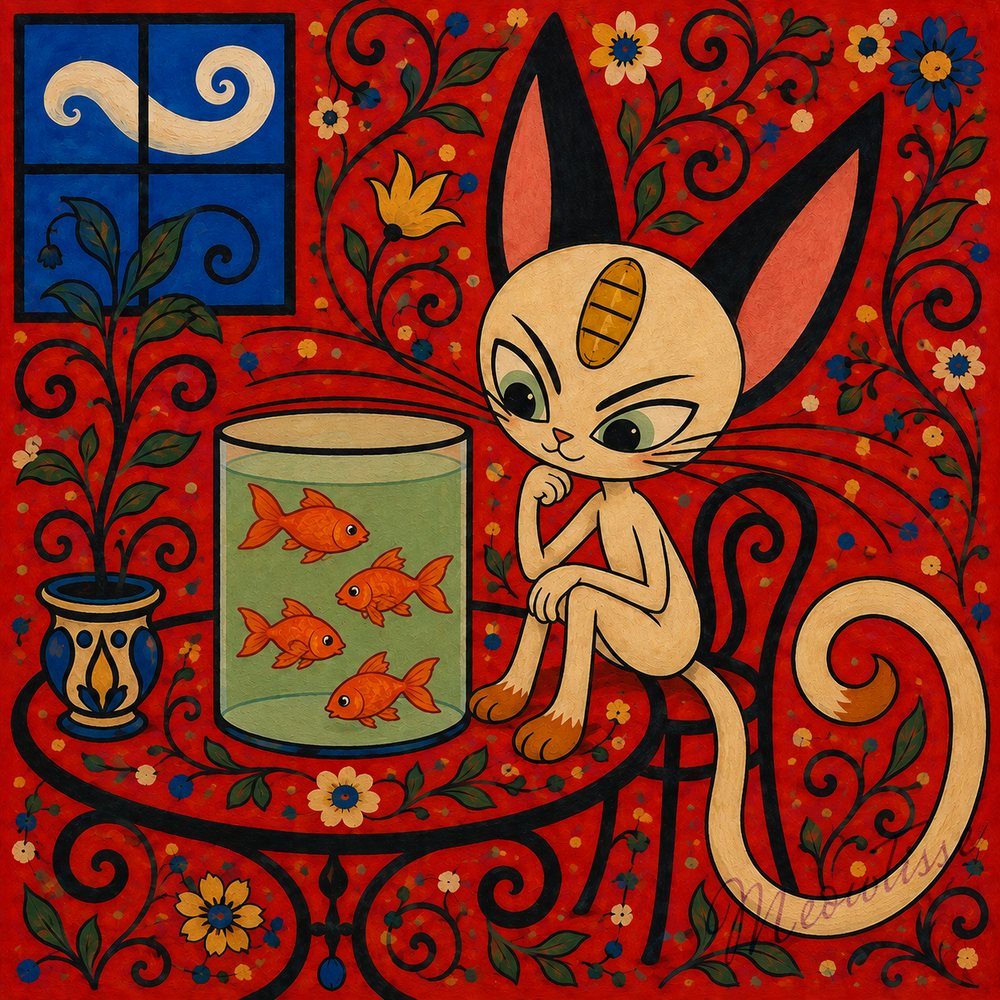
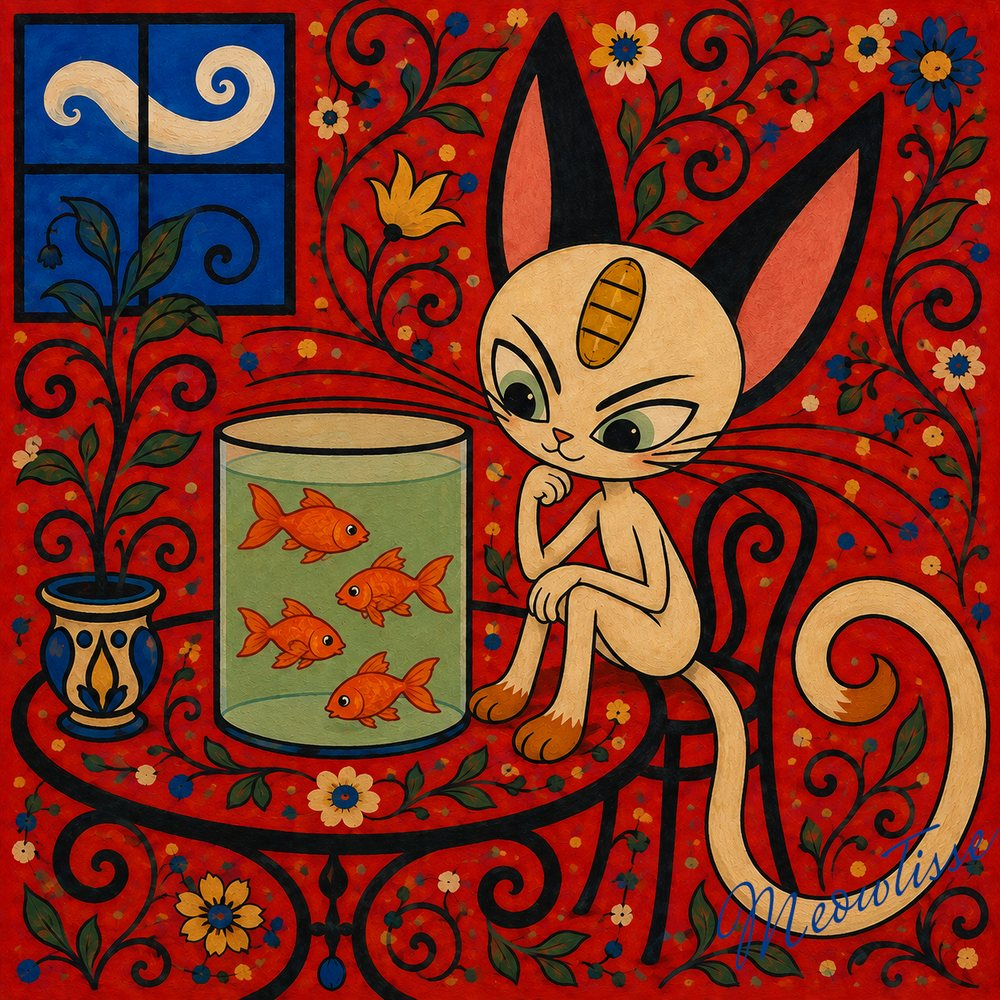
Arts: new versions of all eight Zabieru Fokon works
Seven are identical apart from a reworked signature, now uniformly lower
right — Velazgeta's has moved over from the lower left, so the closing text
goes back to "en bas a droite" / "lower right" / "abajo a la derecha" in all
three languages.

Jackson Piccollock is a different painting altogether: a diagonal lunge in
close-up on near-black, where the old one was a standing caped figure on
ochre with a detonation at the lower right. Its notice described that older
composition down to the detonation, so it is rewritten in FR, EN and ES.

Changed region(s): [[0.713, 0.806, 1.0, 0.992]]

diff --git a/translations.js b/translations.js
@@ -212,7 +212,7 @@ const LANG_DATA = {
     'arts.zab.w2.after': "D'après Frida Kahlo, « Autoportrait au collier d'épines et colibri » (1940)",
     'arts.zab.w2.desc': "Frontal, symétrique, sans ciller. Le modèle n'offre au spectateur aucun angle d'approche et aucune invitation. Là où la tradition place des cheveux, l'artiste place hibiscus et œillets d'Inde ; là où elle place un collier d'épines, il place un collier d'épines, et laisse l'armure violette qui l'accompagne faire le travail. Le feuillage sature le plan jusqu'à ce que la figure soit moins représentée que pressée, comme un spécimen, contre la surface. Sur l'épaule, un petit compagnon cornu tend une fleur qui ne sera pas acceptée. La plus silencieuse des quatre images, et la moins indulgente.",
     'arts.zab.w3.after': "D'après Jackson Pollock, « Autumn Rhythm (Number 30) » (1950)",
-    'arts.zab.w3.desc': "La figure à la cape ne se tient pas devant la composition : elle y est prise — maintenue debout par un filet all-over d'émeraude, de blanc d'os et de noir projetés, où les coulures se lisent aussi bien comme peinture que comme énergie déchargée. En bas à droite, les écheveaux convergent en une seule détonation d'orange et de blanc, le seul endroit où le réseau consent un centre. La critique s'est divisée : la figure produit-elle le tableau ou tente-t-elle d'en sortir ? L'artiste a toujours soutenu que la distinction était sans intérêt.",
+    'arts.zab.w3.desc': "La figure à la cape ne se tient pas devant la composition : elle y est projetée — en diagonale, en plein élan, tenue ensemble par un filet all-over de blanc d'os, d'émeraude et d'orange lancés sur un fond presque noir. Les coulures se lisent aussi bien comme peinture que comme énergie déchargée. Le manteau blanc se déroule dans la moitié haute comme la seule ligne continue d'une surface entièrement faite d'interruptions, tandis que la cape violette se perd en bas à gauche sans jamais devenir tissu. La critique s'est divisée : la figure produit-elle le tableau ou tente-t-elle d'en sortir ? L'artiste a toujours soutenu que la distinction était sans intérêt.",
     'arts.zab.w4.after': "D'après Diego Vélasquez, « Les Ménines » (1656)",
     'arts.zab.w4.desc': "La plus orthodoxe et la plus ironique des quatre. Une cour qui n'existe plus, réassemblée dans un intérieur Habsbourg doré : le prince au centre, bras croisés, menton relevé, flanqué de ses guerriers et entouré des enfants de la lignée — tandis que des toiles encadrées à l'intérieur de la toile répètent la dynastie jusque dans l'ombre. Bruns chauds, lumière de fenêtre venue de la droite, tout l'appareil du portrait royal mis au service d'un royaume de neuf survivants peut-être. Le modèle n'en a pas été informé, et cela lui serait égal.",
     'arts.zab.w5.after': "D'après Pablo Picasso, à la manière des portraits fracturés (v. 1937)",
@@ -223,7 +223,7 @@ const LANG_DATA = {
     'arts.zab.w7.desc': "La platitude poursuivie sans excuse. Un chat crème, breloque dorée au front, médite devant un bocal de poissons orange, dans un intérieur où mur, table et sol se sont effondrés en un seul plan rouge saturé, tenu par des arabesques noires et des fleurs éparses. La profondeur est refusée ; c'est l'ornement qui assure tout le travail structurel. La fenêtre ouvre sur un ailleurs bleu et plat. L'image la plus purement jouissive de la série — et notez que le chat n'a encore rien décidé.",
     'arts.zab.w8.after': "D'après René Magritte, « Golconde » (1953)",
     'arts.zab.w8.desc': "Pince-sans-rire, et d'autant plus drôle. Au-dessus d'une rangée de maisons grises aux volets clos, des poissons orange sont suspendus, immobiles, en rangs ordonnés, diminuant vers l'horizon avec une parfaite logique administrative — bouche ouverte dans une surprise légère et permanente, sans projeter d'ombre, obéissant à une perspective que le ciel lui-même a contresignée. La facture est lisse et impersonnelle, la lumière bureaucratique. L'artiste refuse chaque occasion de signaler qu'une plaisanterie est en cours, ce qui est la seule raison pour laquelle la plaisanterie fonctionne.",
-    'arts.zab.outro': "Fōkon peint tous les jours, mais jamais ceci : le pinceau est réservé à des paysages à l'encre sur papier, pratique privée qu'il n'expose pas — la seule tradition qu'il refuse de faire entrer en collision avec quoi que ce soit. Les œuvres, elles, sont imprimées directement sur aluminium brossé, une surface qu'il décrit comme « honnête quant à son siècle ». La signature, toujours dans la marge basse, fond deux noms en un seul : le peintre et le personnage partageant, enfin, une seule main. Il vit à Singapour avec sa femme et leurs deux enfants, et refuse d'en dire davantage.",
+    'arts.zab.outro': "Fōkon peint tous les jours, mais jamais ceci : le pinceau est réservé à des paysages à l'encre sur papier, pratique privée qu'il n'expose pas — la seule tradition qu'il refuse de faire entrer en collision avec quoi que ce soit. Les œuvres, elles, sont imprimées directement sur aluminium brossé, une surface qu'il décrit comme « honnête quant à son siècle ». La signature, toujours en bas à droite, fond deux noms en un seul : le peintre et le personnage partageant, enfin, une seule main. Il vit à Singapour avec sa femme et leurs deux enfants, et refuse d'en dire davantage.",
     'arts.corr.label': 'Lecture transversale — 2026',
     'arts.corr.title': "M&M's — Correspondances",
     'arts.corr.desc': "Chaque M&M apparaît dans deux séries — un Environnement, un Élément. Loin d'être anecdotique, ce doublement compose une grammaire secrète : c'est dans le passage d'un cadre à l'autre, dans l'écho silencieux entre les deux visages d'un même personnage, que se révèle le véritable propos de l'œuvre. Cinq couleurs, cinq diptyques, cinq vertiges.",
@@ -409,7 +409,7 @@ const LANG_DATA = {
     'arts.zab.w2.after': 'After Frida Kahlo, "Self-Portrait with Thorn Necklace and Hummingbird" (1940)',
     'arts.zab.w2.desc': "Frontal, symmetrical, unblinking. The sitter offers the viewer no angle of approach and no invitation. Where the tradition places hair, the artist places hibiscus and marigolds; where it places a thorn necklace, the artist places a thorn necklace, and lets the violet armour beneath it do the work. The foliage crowds the picture plane until the figure is less portrayed than pressed, specimen-like, against the surface. On the shoulder, a small horned companion offers a flower that will not be accepted. The quietest of the four images, and the least forgiving.",
     'arts.zab.w3.after': 'After Jackson Pollock, "Autumn Rhythm (Number 30)" (1950)',
-    'arts.zab.w3.desc': "The caped figure does not stand before the composition; he is caught in it — held upright by an all-over net of flung emerald, bone white and black, the drips reading equally as paint and as discharged energy. At the lower right, the skeins converge into a single detonation of orange and white, the one place where the network admits a centre. Critics have disagreed over whether the figure is producing the painting or escaping it. The artist has consistently maintained that the distinction is uninteresting.",
+    'arts.zab.w3.desc': "The caped figure does not stand before the composition; he is thrown across it — diagonal, mid-lunge, held together by an all-over net of flung bone white, emerald and orange on a ground of near-black. The drips read equally as paint and as discharged energy. The white mantle unwinds through the upper half as the one sustained line in a surface otherwise built entirely of interruptions, while the violet cape trails off the lower left without ever resolving into cloth. Critics have disagreed over whether the figure is producing the painting or escaping it. The artist has consistently maintained that the distinction is uninteresting.",
     'arts.zab.w4.after': 'After Diego Velázquez, "Las Meninas" (1656)',
     'arts.zab.w4.desc': "The most orthodox and the most ironic of the four. A court that no longer exists, reassembled in a golden Habsburg interior: the prince at centre, arms folded, chin raised, flanked by his warriors and attended by children of the line — while framed canvases within the canvas repeat the dynasty into the shadows. Warm darks, window light from the right, the whole apparatus of royal portraiture placed at the service of a kingdom of perhaps nine survivors. The sitter has not been informed, and would not care.",
     'arts.zab.w5.after': 'After Pablo Picasso, in the manner of the fractured portraits (c. 1937)',
@@ -420,7 +420,7 @@ const LANG_DATA = {
     'arts.zab.w7.desc': "Flatness pursued without apology. A cream-coloured cat, gold charm at its brow, sits in contemplation before a bowl of orange fish, in an interior where wall, table and floor have collapsed into a single saturated red plane held together by black arabesques and scattered blossom. Depth is refused; the ornament does all the structural work. The window opens onto a flat blue elsewhere. The most purely pleasurable image in the series — and note that the cat has not yet decided anything.",
     'arts.zab.w8.after': 'After René Magritte, "Golconda" (1953)',
     'arts.zab.w8.desc': "Deadpan, and the funnier for it. Above a terrace of shuttered grey townhouses, orange fish hang motionless in ordered ranks, diminishing with perfect administrative logic toward the horizon — mouths open in permanent mild surprise, casting no shadows, obeying a perspective that the sky itself has signed off on. The facture is smooth and impersonal, the light bureaucratic. The artist declines every opportunity to signal that a joke is underway, which is the only reason the joke works.",
-    'arts.zab.outro': "Fōkon paints every day, and none of it is this: the brush is kept for ink landscapes on paper, a private practice he never exhibits — the one tradition he declines to collide with anything at all. The works themselves are printed directly on brushed aluminium, a surface he describes as \"honest about its century.\" The signature, always in the lower margin, fuses two names into one: the painter and the character sharing, at last, a single hand. He lives in Singapore with his wife and their two children, and declines to say more.",
+    'arts.zab.outro': "Fōkon paints every day, and none of it is this: the brush is kept for ink landscapes on paper, a private practice he never exhibits — the one tradition he declines to collide with anything at all. The works themselves are printed directly on brushed aluminium, a surface he describes as \"honest about its century.\" The signature, always lower right, fuses two names into one: the painter and the character sharing, at last, a single hand. He lives in Singapore with his wife and their two children, and declines to say more.",
     'arts.corr.label': 'Cross-reading — 2026',
     'arts.corr.title': "M&M's — Correspondences",
     'arts.corr.desc': "Each M&M appears in two series — an Environment, an Element. Far from incidental, this doubling composes a secret grammar: it is in the passage from one frame to the other, in the silent echo between the two faces of the same character, that the true meaning of the work reveals itself. Five colours, five diptychs, five vertigos.",
@@ -718,7 +718,7 @@ const LANG_DATA = {
     'arts.zab.w2.after': 'Según Frida Kahlo, «Autorretrato con collar de espinas y colibrí» (1940)',
     'arts.zab.w2.desc': "Frontal, simétrico, sin parpadear. El modelo no ofrece al espectador ningún ángulo de aproximación ni invitación alguna. Donde la tradición pone cabello, el artista pone hibiscos y cempasúchiles; donde pone un collar de espinas, el artista pone un collar de espinas, y deja que la armadura violeta que hay debajo haga el trabajo. El follaje satura el plano hasta que la figura queda menos representada que prensada, como un espécimen, contra la superficie. Sobre el hombro, un pequeño compañero con cuernos ofrece una flor que no será aceptada. La más silenciosa de las cuatro imágenes, y la menos indulgente.",
     'arts.zab.w3.after': 'Según Jackson Pollock, «Autumn Rhythm (Number 30)» (1950)',
-    'arts.zab.w3.desc': "La figura con capa no está delante de la composición: está atrapada en ella — sostenida en pie por una red all-over de esmeralda, blanco hueso y negro lanzados, donde los chorreos se leen tanto como pintura como energía descargada. Abajo a la derecha, las madejas convergen en una única detonación de naranja y blanco, el único lugar donde la red admite un centro. La crítica se ha dividido: ¿la figura produce el cuadro o intenta escapar de él? El artista siempre ha sostenido que la distinción carece de interés.",
+    'arts.zab.w3.desc': "La figura con capa no está delante de la composición: está lanzada a través de ella — en diagonal, en plena embestida, sostenida por una red all-over de blanco hueso, esmeralda y naranja arrojados sobre un fondo casi negro. Los chorreos se leen tanto como pintura como energía descargada. El manto blanco se despliega en la mitad superior como la única línea continua de una superficie hecha enteramente de interrupciones, mientras la capa violeta se pierde abajo a la izquierda sin llegar nunca a ser tela. La crítica se ha dividido: ¿la figura produce el cuadro o intenta escapar de él? El artista siempre ha sostenido que la distinción carece de interés.",
     'arts.zab.w4.after': 'Según Diego Velázquez, «Las Meninas» (1656)',
     'arts.zab.w4.desc': "La más ortodoxa y la más irónica de las cuatro. Una corte que ya no existe, reensamblada en un interior Habsburgo dorado: el príncipe en el centro, brazos cruzados, mentón alzado, flanqueado por sus guerreros y atendido por los niños del linaje — mientras lienzos enmarcados dentro del lienzo repiten la dinastía hasta la sombra. Oscuros cálidos, luz de ventana desde la derecha, todo el aparato del retrato real puesto al servicio de un reino de quizá nueve supervivientes. Al modelo no se le ha informado, y no le importaría.",
     'arts.zab.w5.after': 'Según Pablo Picasso, a la manera de los retratos fracturados (h. 1937)',
@@ -729,7 +729,7 @@ const LANG_DATA = {
     'arts.zab.w7.desc': "La planitud perseguida sin disculpas. Un gato color crema, con un dije dorado en la frente, medita ante una pecera de peces naranjas, en un interior donde pared, mesa y suelo se han colapsado en un único plano rojo saturado, sostenido por arabescos negros y flores dispersas. Se rechaza la profundidad; el ornamento hace todo el trabajo estructural. La ventana se abre a un otro lugar azul y plano. La imagen más puramente gozosa de la serie — y nótese que el gato aún no ha decidido nada.",
     'arts.zab.w8.after': 'Según René Magritte, «Golconda» (1953)',
     'arts.zab.w8.desc': "Impasible, y por eso más gracioso. Sobre una hilera de casas grises con las persianas cerradas, peces naranjas cuelgan inmóviles en filas ordenadas, disminuyendo hacia el horizonte con perfecta lógica administrativa — la boca abierta en una sorpresa leve y permanente, sin proyectar sombra, obedeciendo a una perspectiva que el propio cielo ha refrendado. La factura es lisa e impersonal, la luz burocrática. El artista rechaza toda ocasión de señalar que hay una broma en marcha, que es la única razón por la que la broma funciona.",
-    'arts.zab.outro': "Fōkon pinta todos los días, y nada de ello es esto: el pincel está reservado a paisajes a tinta sobre papel, una práctica privada que nunca expone — la única tradición que se niega a hacer colisionar con nada. Las obras, en cambio, se imprimen directamente sobre aluminio cepillado, una superficie que describe como «honesta respecto a su siglo». La firma, siempre en el margen inferior, funde dos nombres en uno: el pintor y el personaje compartiendo, por fin, una sola mano. Vive en Singapur con su mujer y sus dos hijos, y se niega a decir más.",
+    'arts.zab.outro': "Fōkon pinta todos los días, y nada de ello es esto: el pincel está reservado a paisajes a tinta sobre papel, una práctica privada que nunca expone — la única tradición que se niega a hacer colisionar con nada. Las obras, en cambio, se imprimen directamente sobre aluminio cepillado, una superficie que describe como «honesta respecto a su siglo». La firma, siempre abajo a la derecha, funde dos nombres en uno: el pintor y el personaje compartiendo, por fin, una sola mano. Vive en Singapur con su mujer y sus dos hijos, y se niega a decir más.",
     'arts.corr.label': 'Lectura transversal — 2026',
     'arts.corr.title': "M&M's — Correspondencias",
     'arts.corr.desc': "Cada M&M aparece en dos series — un Entorno, un Elemento. Lejos de ser anecdótico, este desdoblamiento compone una gramática secreta: es en el paso de un marco al otro, en el eco silencioso entre los dos rostros de un mismo personaje, donde se revela el verdadero propósito de la obra. Cinco colores, cinco dípticos, cinco vértigos.",

diff --git a/arts.html b/arts.html
@@ -893,7 +893,7 @@
           <div class="zab-body">
             <div class="zab-title">Jackson Piccollock</div>
             <div class="zab-after" data-i18n="arts.zab.w3.after">D'après Jackson Pollock, « Autumn Rhythm (Number 30) » (1950)</div>
-            <p class="zab-desc" data-i18n="arts.zab.w3.desc">La figure à la cape ne se tient pas devant la composition : elle y est prise — maintenue debout par un filet all-over d'émeraude, de blanc d'os et de noir projetés, où les coulures se lisent aussi bien comme peinture que comme énergie déchargée. En bas à droite, les écheveaux convergent en une seule détonation d'orange et de blanc, le seul endroit où le réseau consent un centre. La critique s'est divisée : la figure produit-elle le tableau ou tente-t-elle d'en sortir ? L'artiste a toujours soutenu que la distinction était sans intérêt.</p>
+            <p class="zab-desc" data-i18n="arts.zab.w3.desc">La figure à la cape ne se tient pas devant la composition : elle y est projetée — en diagonale, en plein élan, tenue ensemble par un filet all-over de blanc d'os, d'émeraude et d'orange lancés sur un fond presque noir. Les coulures se lisent aussi bien comme peinture que comme énergie déchargée. Le manteau blanc se déroule dans la moitié haute comme la seule ligne continue d'une surface entièrement faite d'interruptions, tandis que la cape violette se perd en bas à gauche sans jamais devenir tissu. La critique s'est divisée : la figure produit-elle le tableau ou tente-t-elle d'en sortir ? L'artiste a toujours soutenu que la distinction était sans intérêt.</p>
           </div>
         </div>
 
@@ -969,7 +969,7 @@
       </div>
 
       <div class="zab-outro">
-        <p data-i18n="arts.zab.outro">Fōkon peint tous les jours, mais jamais ceci : le pinceau est réservé à des paysages à l'encre sur papier, pratique privée qu'il n'expose pas — la seule tradition qu'il refuse de faire entrer en collision avec quoi que ce soit. Les œuvres, elles, sont imprimées directement sur aluminium brossé, une surface qu'il décrit comme « honnête quant à son siècle ». La signature, toujours dans la marge basse, fond deux noms en un seul : le peintre et le personnage partageant, enfin, une seule main. Il vit à Singapour avec sa femme et leurs deux enfants, et refuse d'en dire davantage.</p>
+        <p data-i18n="arts.zab.outro">Fōkon peint tous les jours, mais jamais ceci : le pinceau est réservé à des paysages à l'encre sur papier, pratique privée qu'il n'expose pas — la seule tradition qu'il refuse de faire entrer en collision avec quoi que ce soit. Les œuvres, elles, sont imprimées directement sur aluminium brossé, une surface qu'il décrit comme « honnête quant à son siècle ». La signature, toujours en bas à droite, fond deux noms en un seul : le peintre et le personnage partageant, enfin, une seule main. Il vit à Singapour avec sa femme et leurs deux enfants, et refuse d'en dire davantage.</p>
         <a class="zab-cta" href="https://zabieru-fokon.vercel.app" target="_blank" rel="noopener" data-i18n="arts.zab.cta2">Catalogue complet sur zabieru-fokon →</a>
       </div>
 
